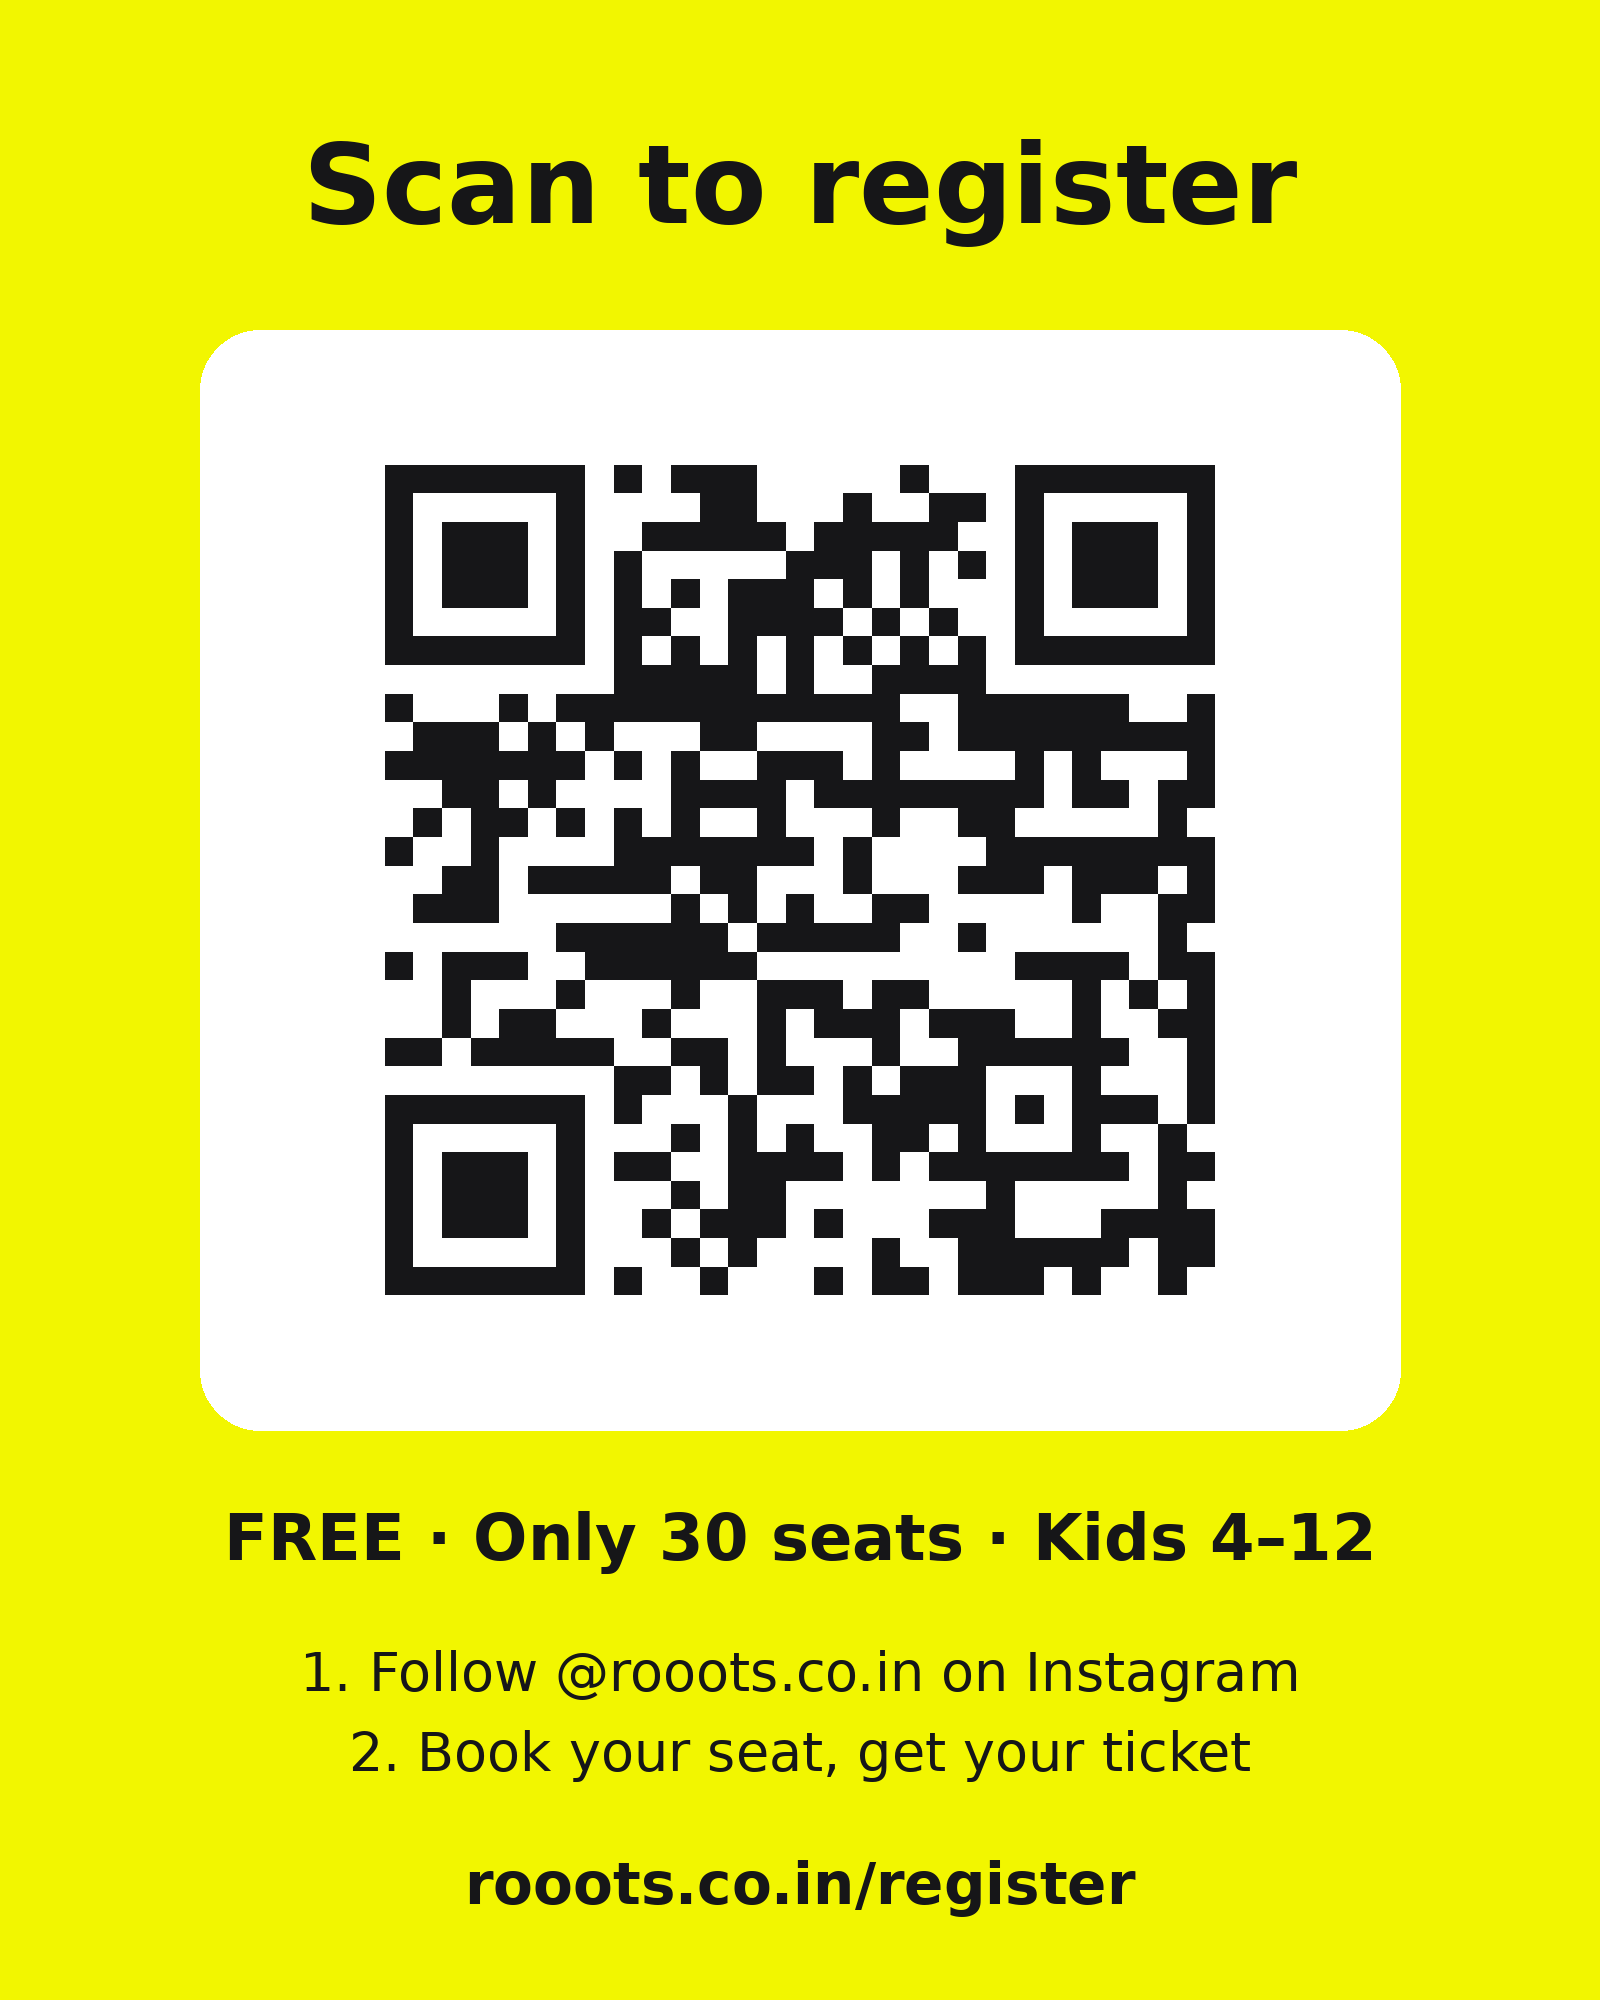
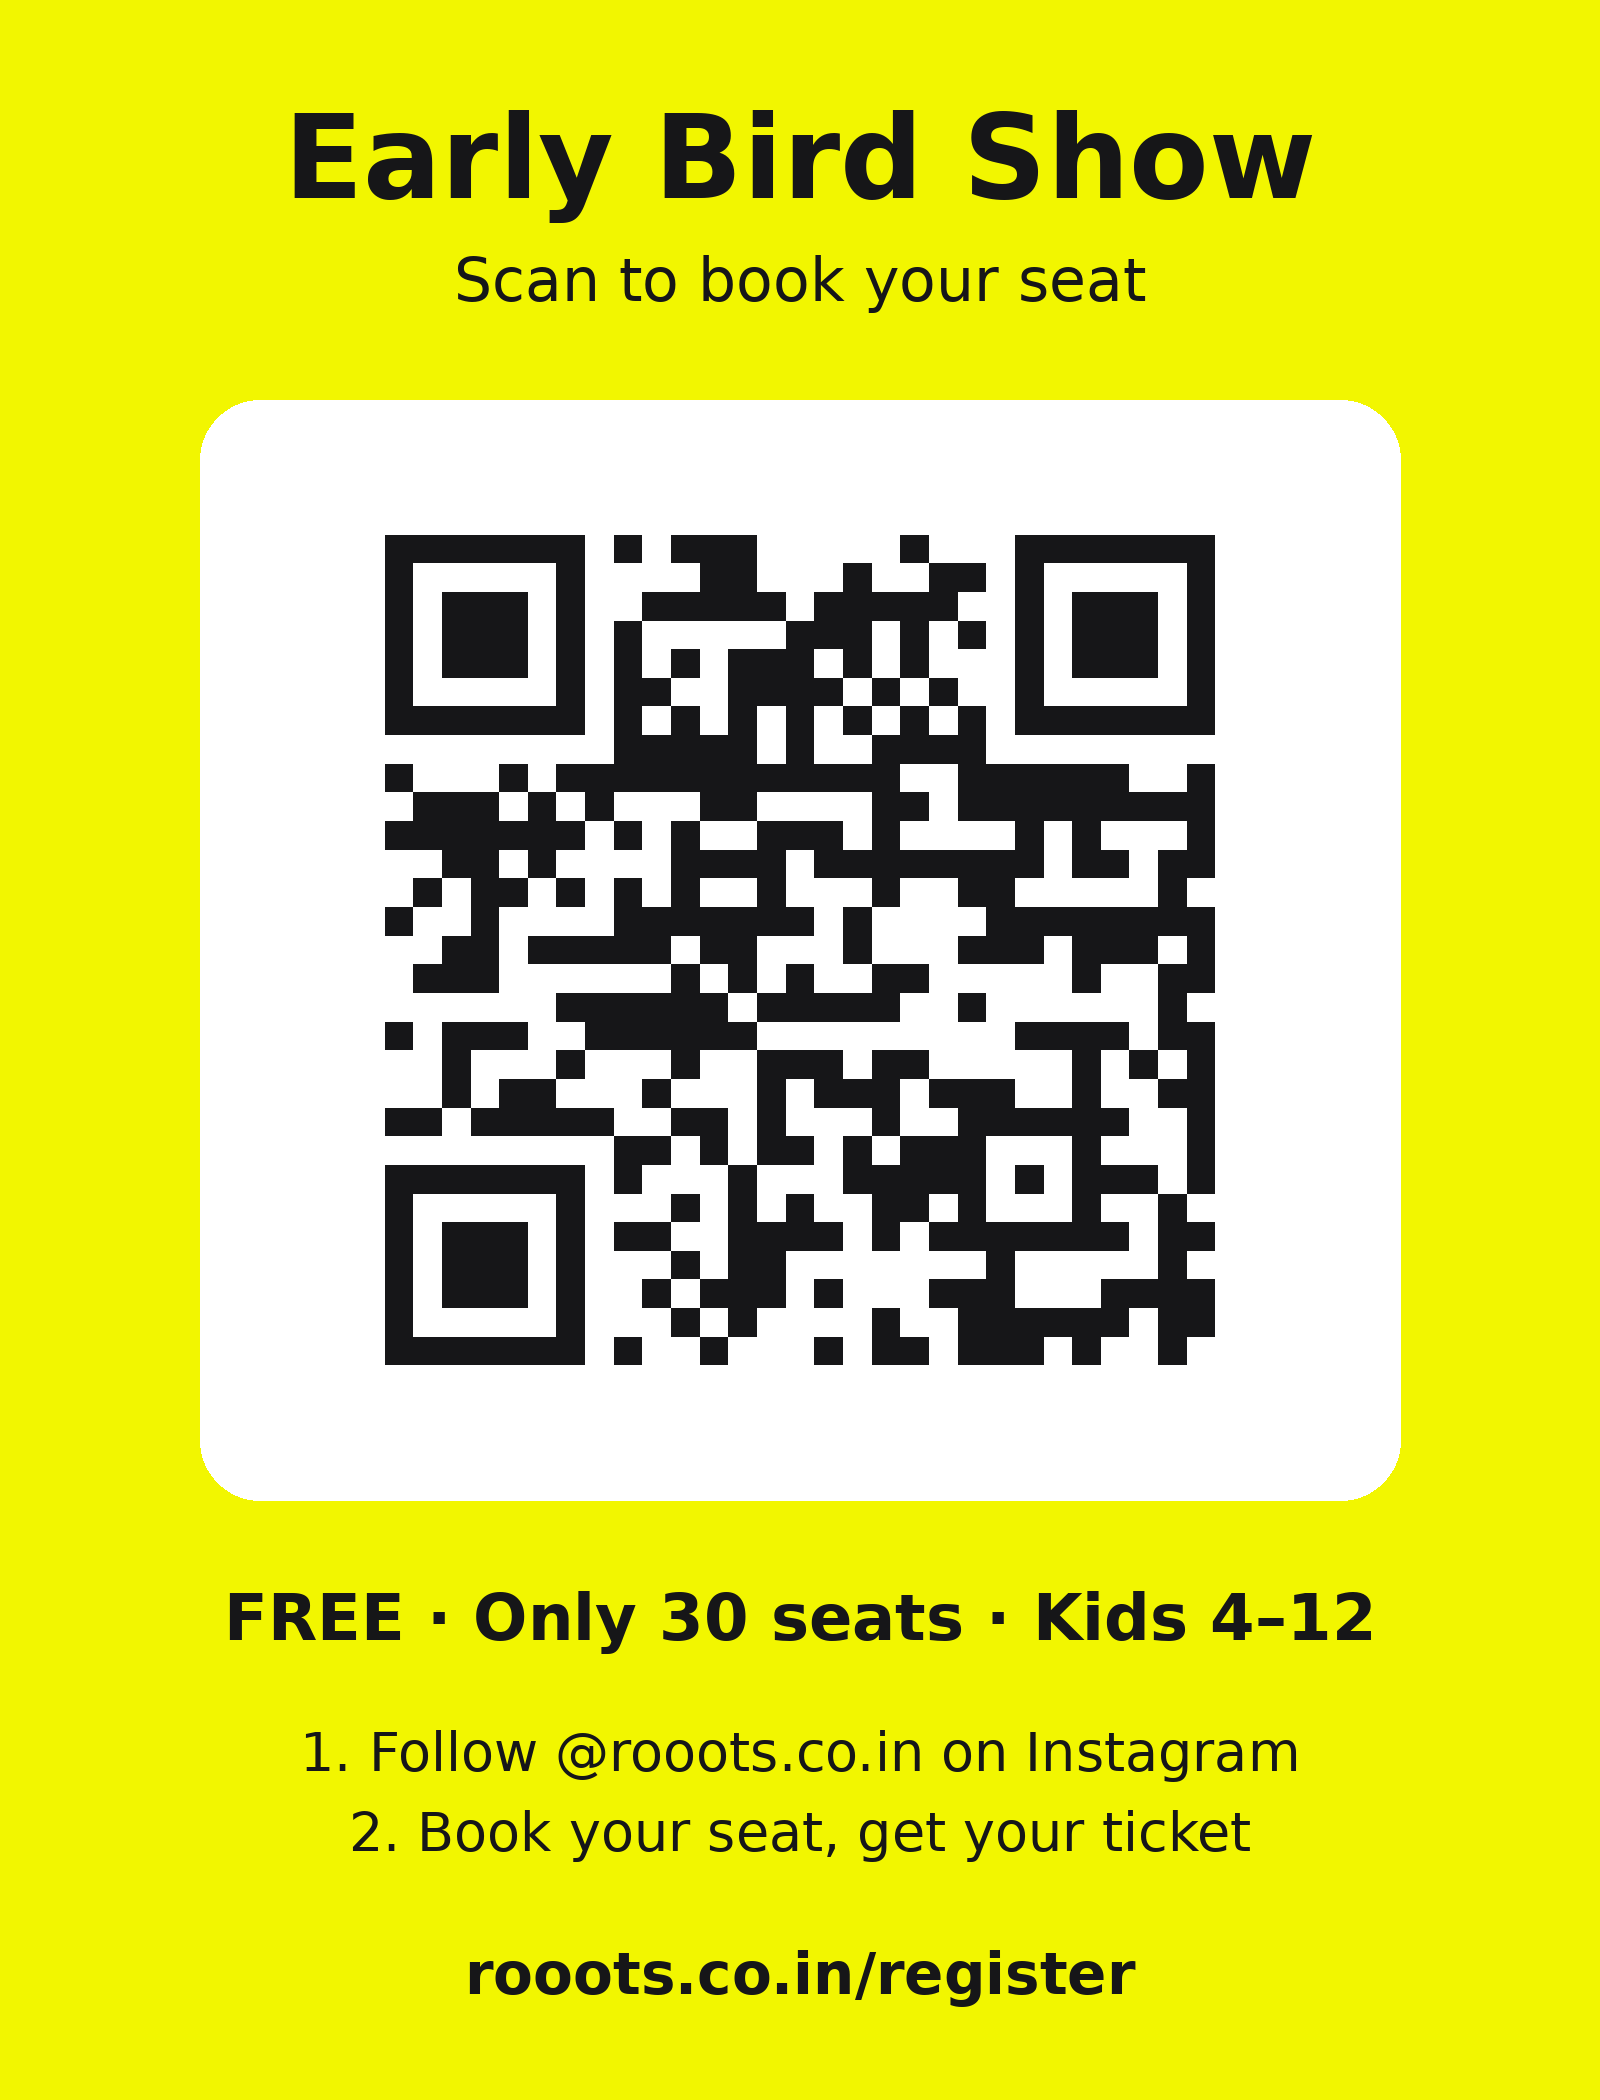
Rename free demo to Early Bird Show
Claude-Session: https://claude.ai/code/session_017a7SXxfN76gFo1VFd5SwQd

diff --git a/index.html b/index.html
@@ -70,7 +70,7 @@ a{color:#F1EDE6} a:hover{color:#F2F600}
 <a href="#approach" style="text-decoration: none">How we work</a>
 <a href="#us" style="text-decoration: none">Who we are</a>
 <a href="https://www.instagram.com/rooots.co.in/" target="_blank" rel="noopener" style="text-decoration: none">Instagram</a>
-<a href="register/" style="display: inline-flex; align-items: center; min-height: 40px; padding: 0 18px; border-radius: 999px; background: #F2F600; color: #161618; text-decoration: none">Free demo · Register</a>
+<a href="register/" style="display: inline-flex; align-items: center; min-height: 40px; padding: 0 18px; border-radius: 999px; background: #F2F600; color: #161618; text-decoration: none">Early Bird Show · Register</a>
 </nav>
 </header>
 
@@ -119,11 +119,11 @@ a{color:#F1EDE6} a:hover{color:#F2F600}
 <dl style="margin: 0; display: grid; grid-template-columns: repeat(2, minmax(0, 1fr)); gap: 16px 24px">
 <div><dt style="font-size: 13px; font-weight: 600; letter-spacing: 0.1em; text-transform: uppercase; color: #9F9A93">Format</dt><dd style="margin: 4px 0 0; font-size: 18px; font-weight: 600">Interactive puppet story</dd></div>
 <div><dt style="font-size: 13px; font-weight: 600; letter-spacing: 0.1em; text-transform: uppercase; color: #9F9A93">For</dt><dd style="margin: 4px 0 0; font-size: 18px; font-weight: 600">Kids 4–12 + grown-ups</dd></div>
-<div><dt style="font-size: 13px; font-weight: 600; letter-spacing: 0.1em; text-transform: uppercase; color: #9F9A93">Free demo</dt><dd style="margin: 4px 0 0; font-size: 18px; font-weight: 600">Sun 29 Nov · 6:30 pm</dd></div>
+<div><dt style="font-size: 13px; font-weight: 600; letter-spacing: 0.1em; text-transform: uppercase; color: #9F9A93">Early Bird Show</dt><dd style="margin: 4px 0 0; font-size: 18px; font-weight: 600">Sun 29 Nov · 6:30 pm</dd></div>
 <div><dt style="font-size: 13px; font-weight: 600; letter-spacing: 0.1em; text-transform: uppercase; color: #9F9A93">Take home</dt><dd style="margin: 4px 0 0; font-size: 18px; font-weight: 600">Your own ornament + a zine</dd></div>
 </dl>
 <div style="display: flex; flex-wrap: wrap; align-items: center; gap: 12px 18px">
-<a href="register/" style="display: inline-flex; align-items: center; min-height: 52px; padding: 0 26px; border-radius: 999px; background: #FF2F8A; color: #161618; font-weight: 700; font-size: 17px; text-decoration: none">Register for the free demo</a>
+<a href="register/" style="display: inline-flex; align-items: center; min-height: 52px; padding: 0 26px; border-radius: 999px; background: #FF2F8A; color: #161618; font-weight: 700; font-size: 17px; text-decoration: none">Book the Early Bird Show · free</a>
 <span style="font-size: 16px; font-weight: 600; color: #F2F600"><span id="seatsLeft">30</span> of 30 seats left</span>
 </div>
 <p style="margin: 0; font-size: 15px; color: #9F9A93">Only 30 seats, for kids aged 4 to 12. Follow <a href="https://www.instagram.com/rooots.co.in/" target="_blank" rel="noopener">@rooots.co.in</a> on Instagram to get yours, or <a href="https://chat.whatsapp.com/EHLfmDSx37S3kZR1HCOKS3" target="_blank" rel="noopener">join our WhatsApp community</a> for updates.</p>

diff --git a/register/index.html b/register/index.html
@@ -4,10 +4,10 @@
 <meta charset="utf-8">
 <meta name="viewport" content="width=device-width, initial-scale=1">
 <title>Register · Is Christmas only for pine trees? | Rooots</title>
-<meta name="description" content="Free demo of Rooots' interactive puppet story for kids aged 4 to 12. 30 seats. Sunday 29 November, 6:30 pm.">
+<meta name="description" content="Early Bird Show: Rooots' free interactive puppet story for kids aged 4 to 12. 30 seats. Sunday 29 November, 6:30 pm.">
 <meta name="robots" content="noindex">
 <meta name="theme-color" content="#161618">
-<meta property="og:title" content="Free demo: Is Christmas only for pine trees?">
+<meta property="og:title" content="Early Bird Show: Is Christmas only for pine trees?">
 <meta property="og:description" content="An interactive puppet story for kids aged 4–12. Only 30 seats. Sunday 29 Nov, 6:30 pm.">
 <meta property="og:image" content="https://rooots.co.in/christmas-poster.jpg">
 <link rel="icon" href="../favicon.svg?v=2" type="image/svg+xml">
@@ -85,7 +85,7 @@ footer{margin-top:40px;font-size:14px;color:#9F9A93;text-align:center}
   <a class="ig-link" id="igTop" target="_blank" rel="noopener" href="https://www.instagram.com/rooots.co.in/">@rooots.co.in</a>
 </header>
 
-<p class="eyebrow">Free demo · Kids 4–12</p>
+<p class="eyebrow">Early Bird Show · Free · Kids 4–12</p>
 <h1>Is Christmas only for <em>pine trees?</em></h1>
 <p class="lede">An interactive puppet story that travels around the world to a mango tree in India. Kids draw their own ornament and take home a zine.</p>
 <dl class="facts">
@@ -162,7 +162,7 @@ footer{margin-top:40px;font-size:14px;color:#9F9A93;text-align:center}
   <p class="eyebrow" style="margin-top:28px" id="ticketHeadline">You’re in! Here’s your ticket</p>
   <div class="ticket" id="ticket">
     <div class="ticket-top">
-      <p class="eyebrow">Rooots · Free demo</p>
+      <p class="eyebrow">Rooots · Early Bird Show</p>
       <h2>Is Christmas only for <em>pine trees?</em></h2>
     </div>
     <div class="ticket-tear"></div>
@@ -341,7 +341,7 @@ footer{margin-top:40px;font-size:14px;color:#9F9A93;text-align:center}
       x.fillStyle = '#F1EDE6'; x.font = '800 64px "Bricolage Grotesque", sans-serif'; x.fillText('rooots', 80, 130);
       x.fillStyle = '#F2F600'; round(x, 60, 190, W - 120, H - 300, 48); x.fill();
       x.fillStyle = '#161618';
-      x.font = '700 30px "Instrument Sans", sans-serif'; x.fillText('ROOOTS · FREE DEMO', 120, 290);
+      x.font = '700 30px "Instrument Sans", sans-serif'; x.fillText('ROOOTS · EARLY BIRD SHOW', 120, 290);
       x.font = '800 76px "Bricolage Grotesque", sans-serif'; x.fillText('Is Christmas only', 120, 390);
       x.fillText('for ', 120, 476);
       var w = x.measureText('for ').width;

diff --git a/admin/index.html b/admin/index.html
@@ -40,7 +40,7 @@ td input[type=checkbox]{width:20px;height:20px;accent-color:#00B814}
 <body>
 <div class="wrap">
   <h1>Registrations</h1>
-  <p class="sub">Free demo · Is Christmas only for pine trees? · Sun 29 Nov, 6:30 pm</p>
+  <p class="sub">Early Bird Show · Is Christmas only for pine trees? · Sun 29 Nov, 6:30 pm</p>
 
   <form class="box" id="login">
     <label for="pw" style="display:block;font-weight:600;margin-bottom:8px">Admin password</label>

diff --git a/README.md b/README.md
@@ -30,7 +30,7 @@ A one-page website for Rooots. It's plain HTML and CSS in a single file, so it n
 
 Open `index.html` on GitHub, click the pencil icon, make your change and click **Commit changes**. The live site updates within a minute or two.
 
-## Free demo registration (30 seats)
+## Early Bird Show registration (30 seats)
 
 Pages:
 
